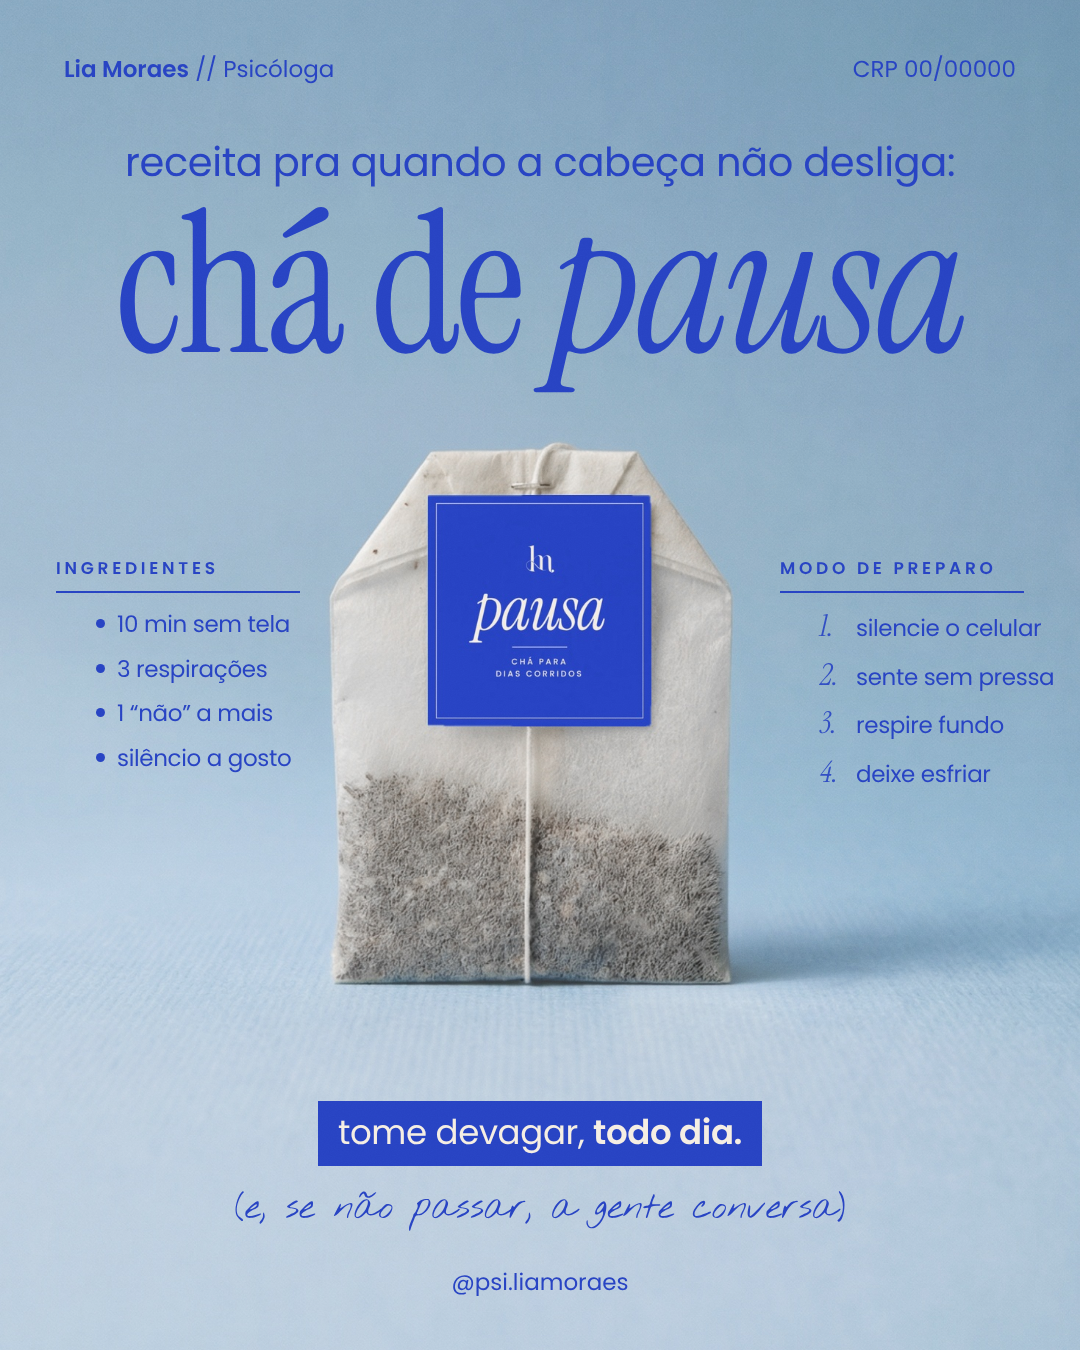
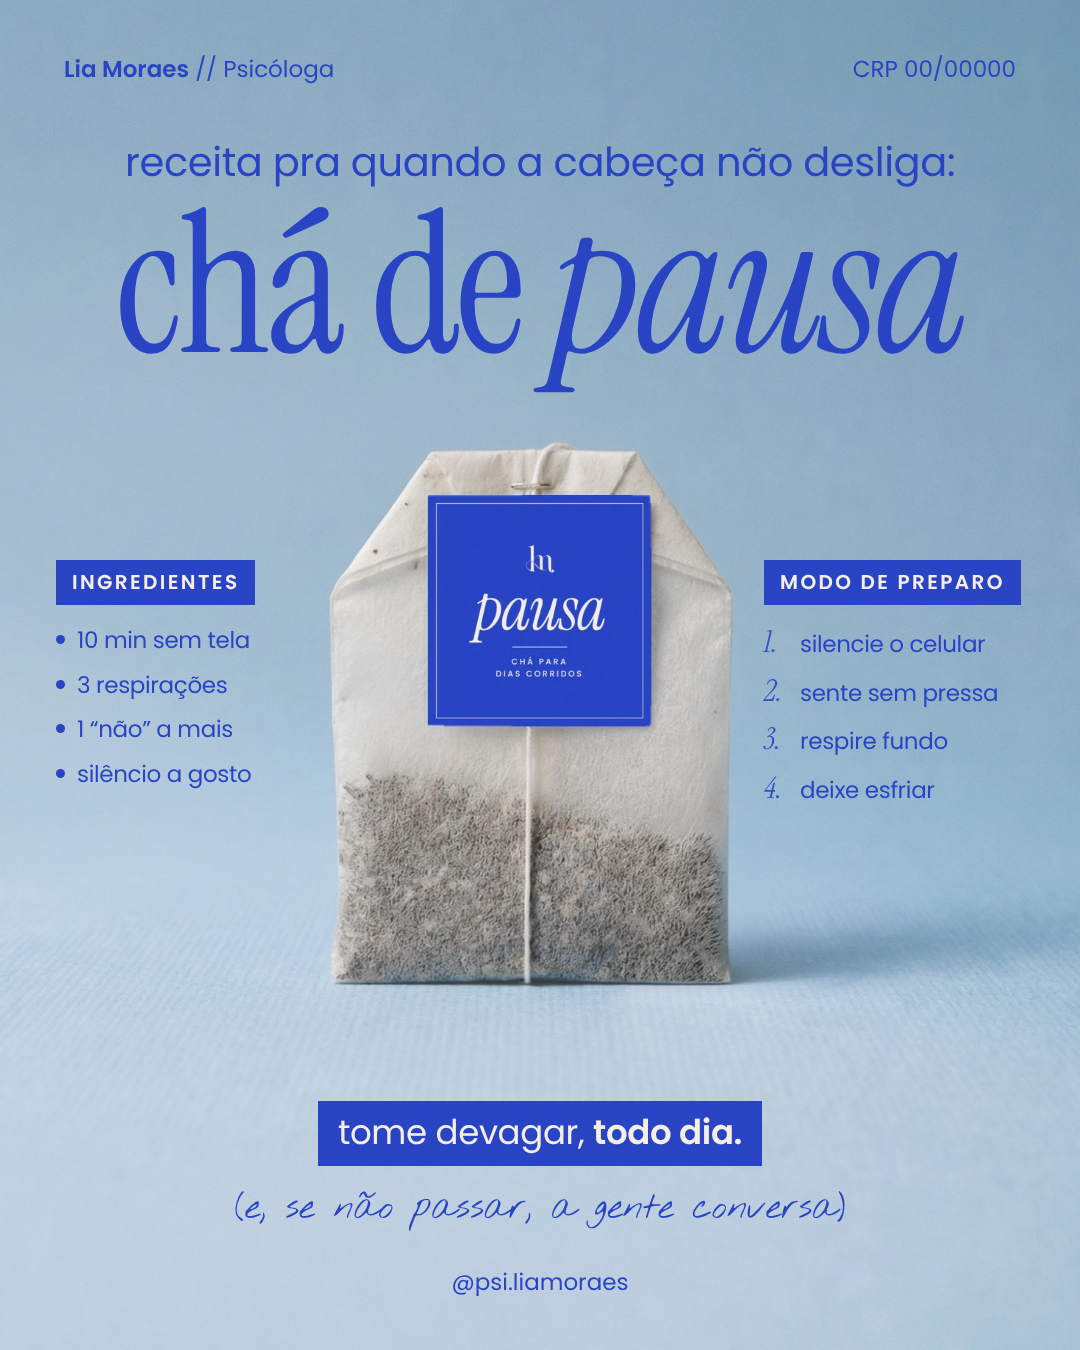
Lia Moraes: chá de pausa com títulos em faixa cobalto e itens alinhados a eles
Claude-Session: https://claude.ai/code/session_01CmCiK8Gv7bd1khyaxwEQLc

Changed region(s): [[0.7028, 0.4044, 0.9778, 0.5911], [0.0306, 0.4044, 0.275, 0.5911]]

diff --git a/psicologa-lia-moraes/projeto/posts/posts-v5.html b/psicologa-lia-moraes/projeto/posts/posts-v5.html
@@ -153,8 +153,9 @@ body{background:#777;padding:20px;display:flex;gap:20px;flex-wrap:wrap}
     <div class="is" style="font-size:196px;line-height:.9;margin-top:6px">chá de <i>pausa</i></div>
   </div>
   <style>
-    .col-cha{position:absolute;top:560px;width:244px;color:var(--c)}
-    .col-cha h4{font:600 17px/1 Poppins;letter-spacing:.22em;text-transform:uppercase;padding-bottom:14px;border-bottom:2px solid var(--c);margin-bottom:18px}
+    .col-cha{position:absolute;top:560px;width:260px;color:var(--c)}
+    .col-cha h4{display:inline-block;white-space:nowrap;background:var(--c);color:var(--creme);font:600 20px/1 Poppins;letter-spacing:.12em;text-transform:uppercase;padding:12px 16px 13px;margin-bottom:22px}
+    .col-cha ul{padding:0;margin:0}
     .col-cha li{list-style:none;font:400 23px/1.2 Poppins;letter-spacing:-.015em;margin-bottom:17px;display:flex;gap:12px;align-items:baseline;white-space:nowrap}
     .col-cha li i{flex:none;font:italic 400 30px/1 'Instrument Serif';width:24px;color:var(--c);opacity:.9}
     .col-cha li .pt{flex:none;width:9px;height:9px;border-radius:50%;background:var(--c);transform:translateY(-4px)}
